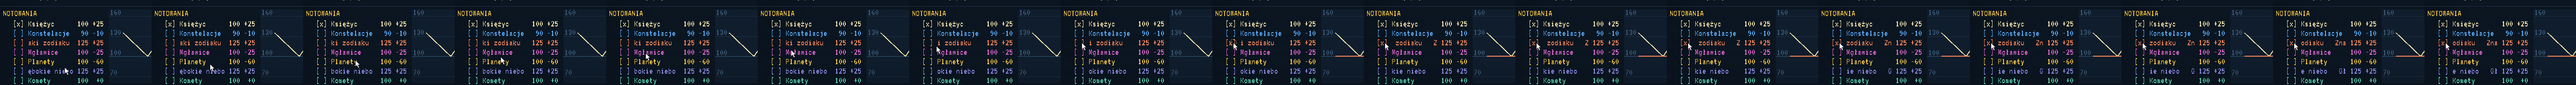
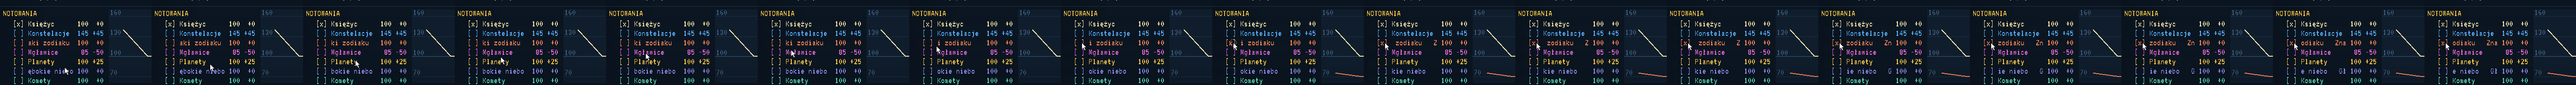
Okular: pęknięcie „pajączek”, kurz jak natrysk; Newton patrzy w prawo
Pęknięcie: punkt uderzenia, promienie i poszarpane pierścienie tylko w rogu soczewki. Kurz: ziarniste
skupiska drobinek (gęste w środku, rzadkie na brzegach) i pojedyncze pyłki zamiast gładkich plam.
Teleskop Newtona odbity w poziomie: tuba skierowana tak jak stary teleskop. Nagrania samouczków od nowa.

Claude-Session: https://claude.ai/code/session_01AApWJ5vAAocyN6ZrWVUcqc

diff --git a/tools/art/newton.js b/tools/art/newton.js
@@ -21,7 +21,9 @@ function newton() {
   s.line(36, 54, 24, 70, sil[2], 1);
   slab0(s, 19, 68, 28, 75, blk); s.rect(20, 69, 27, 70, blk[2]);
   s.sprite(tube, 3, 0);
-  return P.trim(ink(s));
+  const o = P.trim(ink(s)), f = new P.Buf(o.w, o.h);  // lustro: tuba patrzy w prawo, jak stary teleskop
+  for (let y = 0; y < o.h; y++) for (let x = 0; x < o.w; x++) f.px[y * o.w + x] = o.px[y * o.w + o.w - 1 - x];
+  return f;
 }
 function slab0(s, x0, y0, x1, y1, r) { s.rect(x0, y0, x1, y1, r[1]); s.rect(x0, y0, x1, y0 + 1, r[2]); s.rect(x0, y1 - 1, x1, y1, r[0]); }
 module.exports = { newton };
